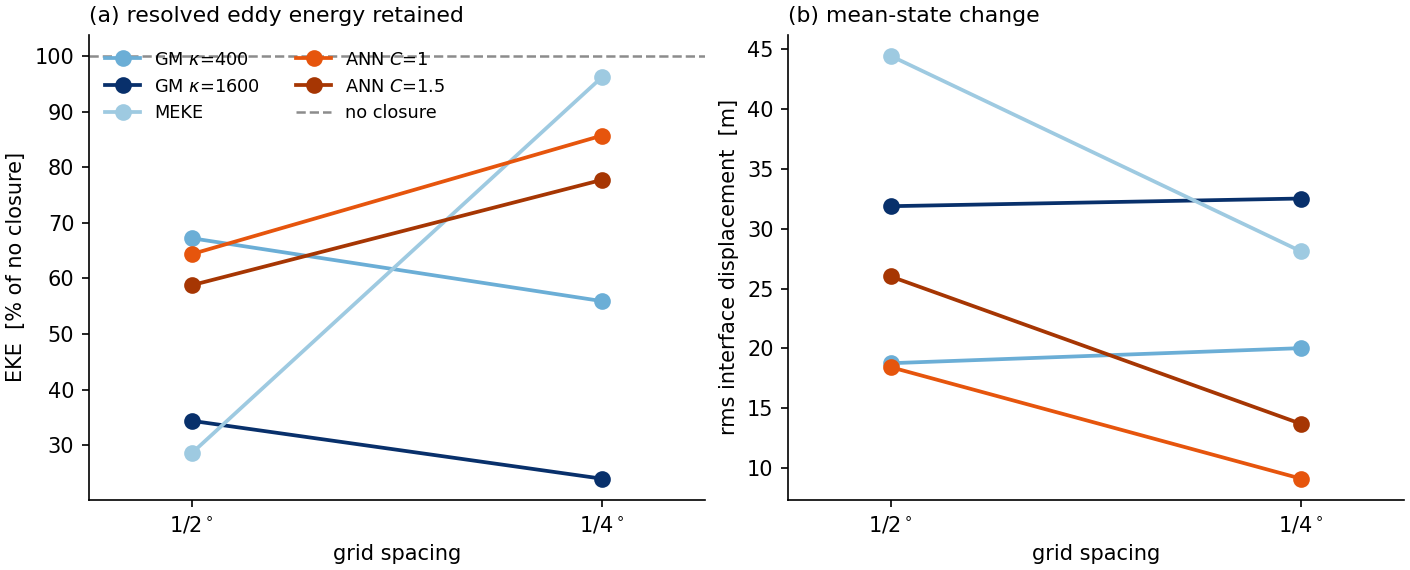
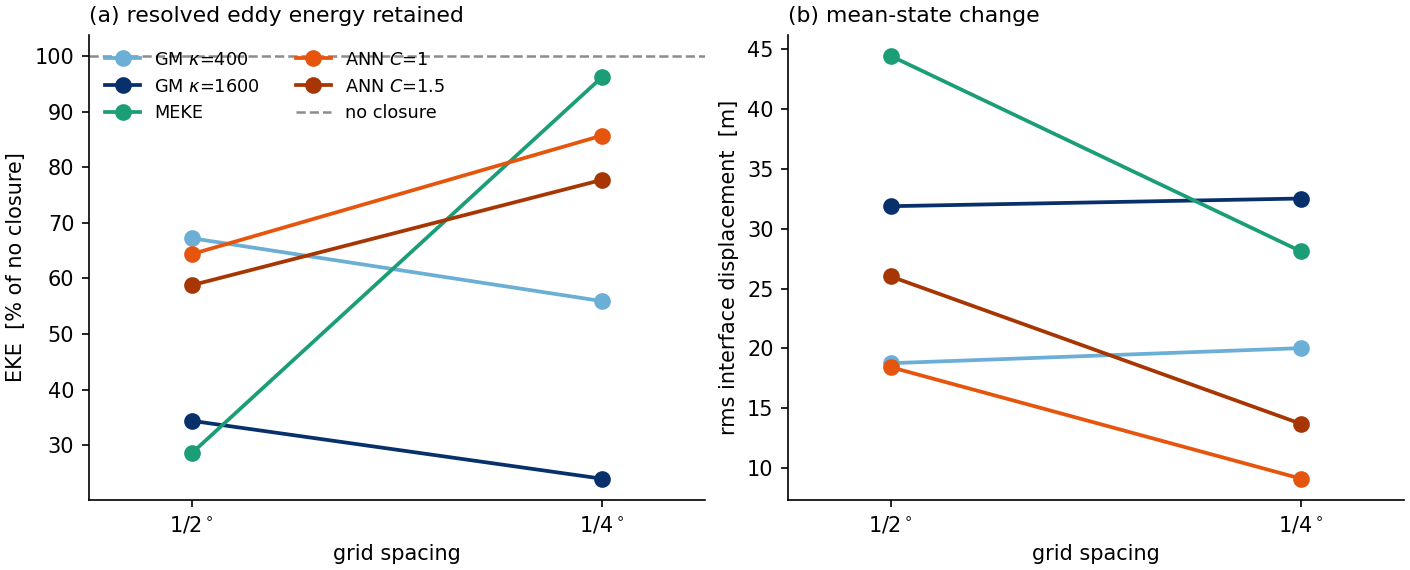
NW2 figures: MEKE line color light-blue -> teal-green (was near-identical to GM400)
Claude-Session: https://claude.ai/code/session_013YxY5kSiCrM21jUwV4Z6dE

diff --git a/src/training-on-CM2.6/scripts/nw2_timeseries.py b/src/training-on-CM2.6/scripts/nw2_timeseries.py
@@ -12,7 +12,7 @@ import matplotlib.pyplot as plt
 RUNGS = [("1/2$^\\circ$", "/scratch/db194/mom6/jul2026_nw2"),
          ("1/4$^\\circ$", "/scratch/db194/mom6/jul2026_nw2_R4")]
 RUNS = ["bare", "GM400", "GM1600", "MEKE", "ANN_c1p0", "ANN_c1p5"]
-COL = {"bare": "#8c8c8c", "GM400": "#6baed6", "GM1600": "#08306b", "MEKE": "#9ecae1",
+COL = {"bare": "#8c8c8c", "GM400": "#6baed6", "GM1600": "#08306b", "MEKE": "#1b9e77",
        "ANN_c1p0": "#e6550d", "ANN_c1p5": "#a63603"}
 LAB = {"bare": "no closure", "GM400": "GM $\\kappa$=400", "GM1600": "GM $\\kappa$=1600",
        "MEKE": "MEKE", "ANN_c1p0": "ANN $C$=1", "ANN_c1p5": "ANN $C$=1.5"}

diff --git a/src/training-on-CM2.6/scripts/nw2_spike_diagnosis.py b/src/training-on-CM2.6/scripts/nw2_spike_diagnosis.py
@@ -44,7 +44,7 @@ for r in ("ANN_c1p0", "ANN_c1p5", "ANN_c2p0"):
 plt.rcParams.update({"font.size": 9, "axes.titlesize": 9.5, "axes.labelsize": 9,
                      "xtick.labelsize": 8.5, "ytick.labelsize": 8.5, "legend.fontsize": 8})
 fig, ax = plt.subplots(1, 3, figsize=(13.5, 3.4), constrained_layout=True)
-COL = {"bare": "#8c8c8c", "GM400": "#4292c6", "GM1600": "#08306b", "MEKE": "#9ecae1",
+COL = {"bare": "#8c8c8c", "GM400": "#4292c6", "GM1600": "#08306b", "MEKE": "#1b9e77",
        "ANN_c1p0": "#fd8d3c", "ANN_c1p5": "#e6550d", "ANN_c2p0": "#a63603"}
 for r in RUNS:
     s = d[r]

diff --git a/src/training-on-CM2.6/scripts/nw2_energy_timeseries.py b/src/training-on-CM2.6/scripts/nw2_energy_timeseries.py
@@ -12,7 +12,7 @@ import numpy as np, xarray as xr
 import matplotlib; matplotlib.use("Agg"); import matplotlib.pyplot as plt
 
 B = "/scratch/db194/mom6/jul2026_nw2"
-RUNS = [("bare", "no closure", "#8c8c8c"), ("MEKE", "MEKE", "#9ecae1"),
+RUNS = [("bare", "no closure", "#8c8c8c"), ("MEKE", "MEKE", "#1b9e77"),
         ("GM400", "GM $\\kappa$=400", "#4292c6"), ("GM1600", "GM $\\kappa$=1600", "#08306b"),
         ("ANN_c1p0", "ANN $C$=1", "#fd8d3c"), ("ANN_c1p5", "ANN $C$=1.5", "#e6550d"),
         ("ANN_c2p0", "ANN $C$=2", "#a63603")]

diff --git a/src/training-on-CM2.6/scripts/nw2_ape_redistribution.py b/src/training-on-CM2.6/scripts/nw2_ape_redistribution.py
@@ -18,7 +18,7 @@ RUNGS = [("1/2$^\\circ$", "/scratch/db194/mom6/jul2026_nw2"),
          ("1/4$^\\circ$", "/scratch/db194/mom6/jul2026_nw2_R4")]
 ORDER = [("GM400", "GM $\\kappa$=400"), ("GM1600", "GM $\\kappa$=1600"), ("MEKE", "MEKE"),
          ("ANN_c1p0", "ANN $C$=1"), ("ANN_c1p5", "ANN $C$=1.5")]
-COL = {"GM400": "#6baed6", "GM1600": "#08306b", "MEKE": "#9ecae1",
+COL = {"GM400": "#6baed6", "GM1600": "#08306b", "MEKE": "#1b9e77",
        "ANN_c1p0": "#e6550d", "ANN_c1p5": "#a63603"}
 
 data = {}

diff --git a/src/training-on-CM2.6/scripts/nw2_ladder.py b/src/training-on-CM2.6/scripts/nw2_ladder.py
@@ -49,7 +49,7 @@ for r in RUNS:
     print(f"{r:<10}{row}")
 
 mpl.rcParams.update({"font.size": 10, "axes.titlesize": 10.5, "legend.fontsize": 8.5})
-COL = {"GM400": "#6baed6", "GM1600": "#08306b", "MEKE": "#9ecae1",
+COL = {"GM400": "#6baed6", "GM1600": "#08306b", "MEKE": "#1b9e77",
        "ANN_c1p0": "#e6550d", "ANN_c1p5": "#a63603"}
 LAB = {"GM400": "GM $\\kappa$=400", "GM1600": "GM $\\kappa$=1600", "MEKE": "MEKE",
        "ANN_c1p0": "ANN $C$=1", "ANN_c1p5": "ANN $C$=1.5"}
